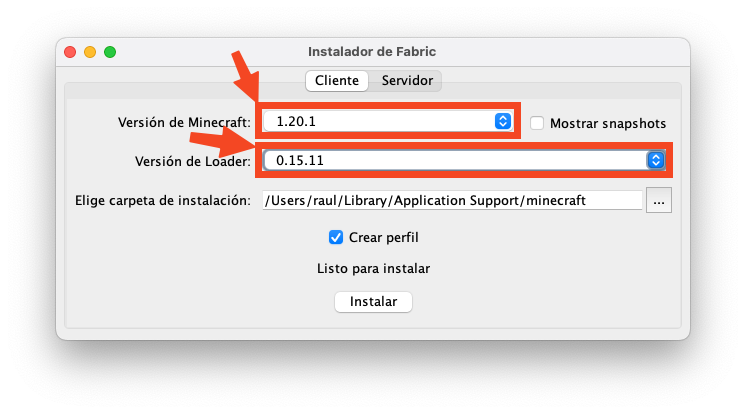
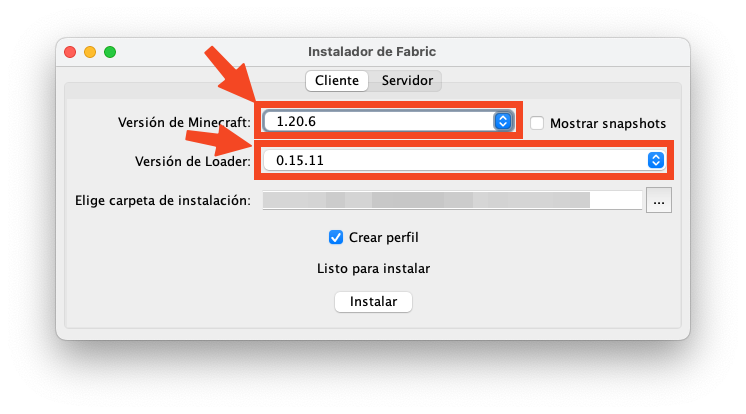
updated default mc again

Changed region(s): [[0.2466, 0.1159, 0.8941, 0.4348], [0.3391, 0.4638, 0.8016, 0.5217]]

diff --git a/content/Default Minecraft launcher.md b/content/Default Minecraft launcher.md
@@ -6,32 +6,32 @@ I'm guessing you already installed java, downloaded the official Minecraft launc
 
 # Guide start
 
-First what you have to do is install the installed for the mod loader, we are using QuiltMC, so make sure to download the installer from https://quiltmc.org/en/install/, make sure to download the **Client** one.
+First what you have to do is install the installed for the mod loader, we are using Fabric, so make sure to download the installer from https://fabricmc.net/use/installer/, make sure to download the **Client** one.
 Once you downloaded and opened the file you should be greeted by a screen that looks like this, make sure to select the options I selected below
-![[content/images/Official_8.png]]
-After Quilt finishes downloading make sure it is installed by opening your Minecraft launcher and looking through your instances, you should see that Quilt is installed like it shows on the picture below
-![[content/images/Official_2.png]]
-After that head to the "Installations" tag at the top of your screen and click **edit** under your Quilt installation
-![[content/images/Official_3.png]]
+![[Official_1.png]]
+After Fabric finishes downloading make sure it is installed by opening your Minecraft launcher and looking through your instances, you should see that Fabric is installed like it shows on the picture below
+![[Official_2.png]]
+After that head to the "Installations" tag at the top of your screen and click **edit** under your Fabric installation
+![[Official_3.png]]
 You will then be prompted with this screen, please click more options
-![[content/images/Official_4.png]]
+![[Official_4.png]]
 You mush change "**-Xmx2G**" to "**-Xmx4G**", You are simply changing the 2 to a 4. Once you've done that, click **save**
 ![[Official_5.png]]
-![[content/images/Official_6.png]]
+![[Official_6.png]]
 Once that is completed, head over to the [modpack](https://discord.com/channels/1221495511354179664/1221499038180970567) Discord channel and download files from the **Google Drive link**!!!!!!. Then, proceed to open up the Quilt installation's mod folder. Drag the **unzipped**!!!!!!. mods into that folder.
-![[content/images/Official_7.png]]
+![[Official_7.png]]
 Once you've completed all of those steps, the mods should be installed and you can boot up minecraft through the launcher. By clicking the **green** "**Play**" button, It takes around 1 minute to load, probably less if you have a good computer.
-![[content/images/Official_9.png]]
+![[Official_8.png]]
 Once it loaded you should be greeted by a screen that looks like this
 ![[Common_1.png]]
 Click on the "Multiplayer" button
 ![[Common_2.png]]
 You should see a screen that looks like this, click on the "Add Server" button
-![[public/images/Official_8.png]]
+![[Official_9.png]]
 After that you should see a screen like this, fill out the spaces like I did with the server information.
 The server's IP address is:
 ```slore-smp.minecraft.casa```
-![[public/images/Official_9.png]]
+![[Official_10.png]]
 Once you did all of that click the "Done" button and make sure to select the server and click "Join Server"!
 ![[Common_3.png]]
 After this you should be in the server and are free to play! Make sure to follow the [[Rules]]!
